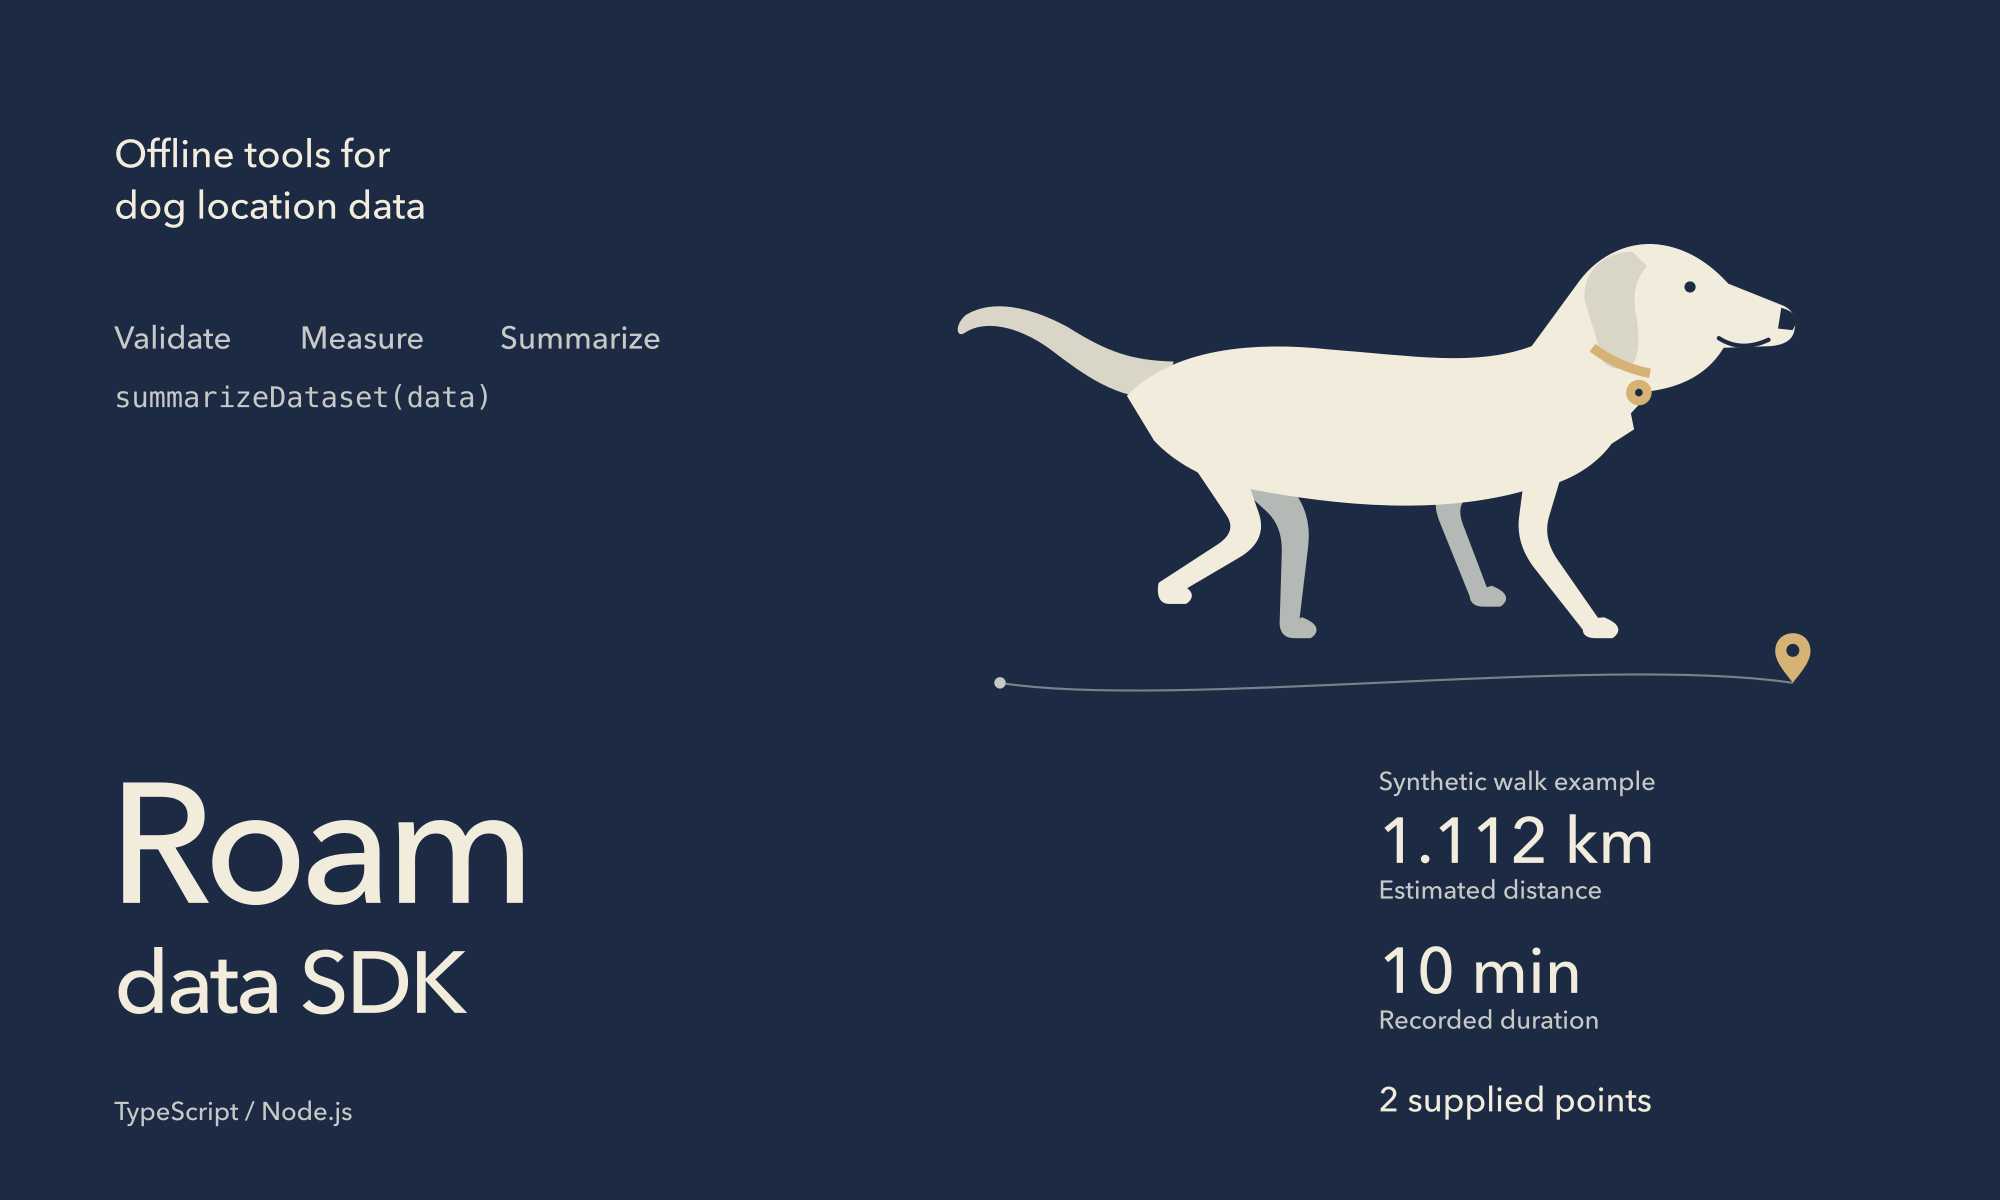
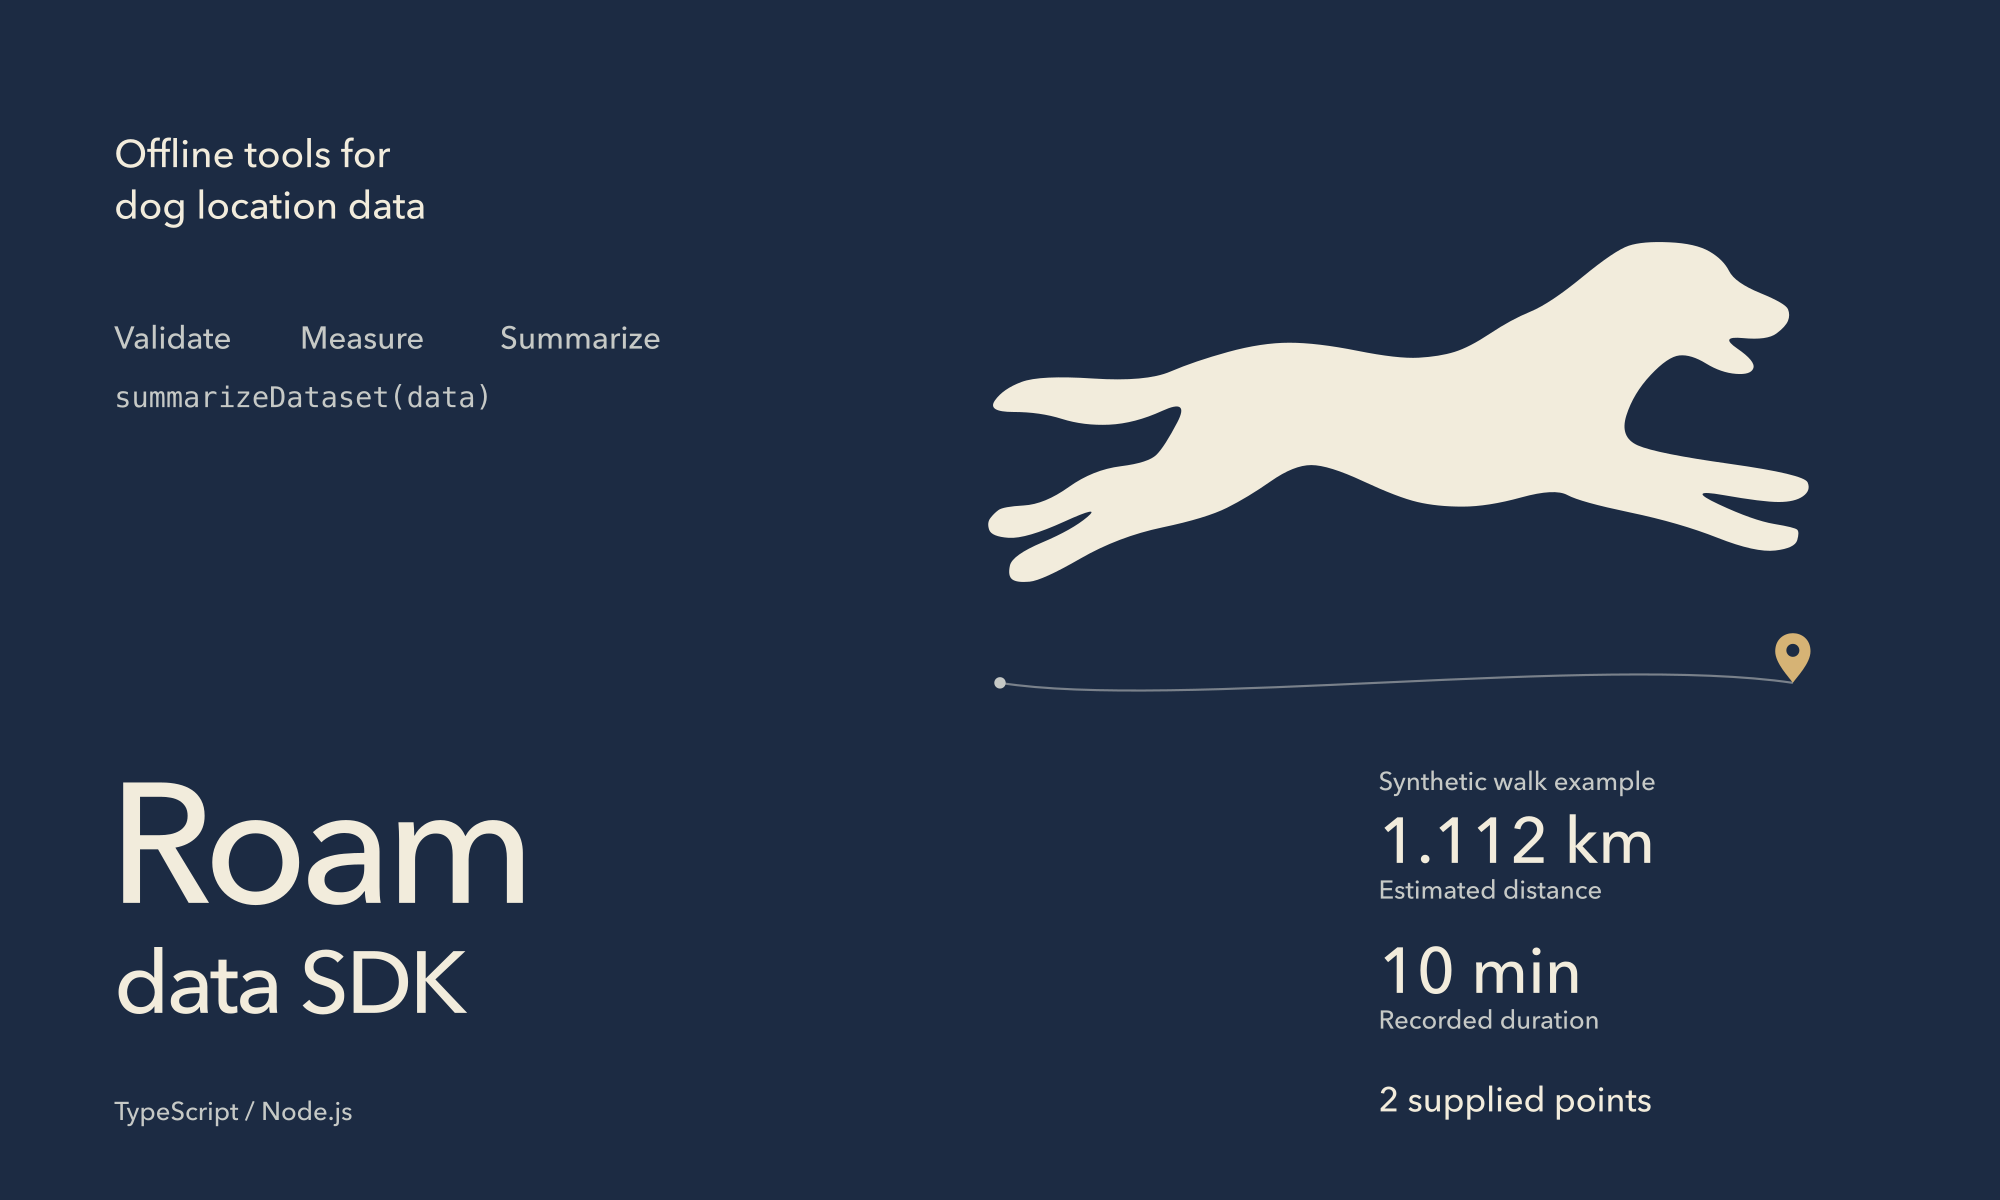
Animate the dog gallop from ten complete silhouette poses

Changed region(s): [[0.465, 0.185, 0.899, 0.555]]

diff --git a/docs/assets/dog-run-prompt.md b/docs/assets/dog-run-prompt.md
@@ -1,0 +1,25 @@
+# Running dog artwork
+
+The running dog key poses were generated with the built-in image generation tool, then prepared for the documentation animation. The reference photographs were used to study the motion; they are not embedded in the artwork.
+
+## Generation prompt
+
+```text
+Use case: illustration-story
+Asset type: a transparent animation sprite sheet for a running dog in a refined editorial pet-location app illustration
+Primary request: create TEN coherent key poses of ONE anatomically believable medium-sized retriever-like dog in a FULL GALLOP, not walking or trotting
+Canvas and layout: exactly 3840 by 1536 pixels, a uniform grid of FIVE columns and TWO rows, ten square cells of 768 by 768 pixels; one complete dog in each cell, no dividers, no labels, generous transparent margins; read poses left to right across the first row, then left to right across the second row
+Subject and style: original elegant side-profile dog silhouette, facing RIGHT in every cell; warm ivory solid fill #f2ecdc on a genuinely transparent background; restrained mid-century editorial cut-paper style with smooth anatomical curves; lean healthy adult dog, a natural muzzle, soft hanging ears, a long tapering tail trailing backward; the SAME proportions, breed, scale, and identity throughout
+Motion direction: a continuous looping gallop sequence. Pose 1: front paws reaching down toward contact and hind legs recovering. Pose 2: front support and hind feet gathering underneath. Pose 3: collected airborne phase with the legs tucked. Pose 4: hind paws reaching under the body for contact and front legs recovering forward. Pose 5: hind push-off, front legs reaching. Pose 6: body lifting into an extended airborne phase. Pose 7: full stretched gallop, front limbs reaching forward and hind limbs stretched backward, all feet off the ground. Pose 8: front limbs begin lowering and hind limbs recover. Pose 9: front paws reach toward the ground. Pose 10: front landing that connects naturally back to pose 1.
+Registration: all dogs are the same size, with the torso centered on the same relative point in each cell; allow the spine and abdomen to flex naturally, not rigid mechanical rotation. The torso stays in roughly the same screen position as for an in-place animation. Never let ears, tail, feet, or nose cross cell boundaries.
+Anatomy: exactly FOUR anatomically plausible legs per dog, with natural elbows, stifles, wrists, hocks and softly shaped paws; near and far limbs may overlap naturally. Feet must look like dog paws, not boots, hands, wooden sticks, or wheels. The tail joins smoothly to the rump, tapers to a soft tip, and follows the motion without a hard kink or rigid hook. No extra legs, disconnected paws, broken joints, or duplicate tails.
+Constraints: a single flat ivory silhouette per pose; keep the negative-space separations between legs readable; no strokes, fur texture, gradients, shadows, ground plane, scenery, text, numbers, borders, accessories, collar or logo. Do not repeat a standing or walking pose. It must unmistakably depict RUNNING.
+```
+
+## Silhouette cleanup prompt
+
+```text
+Edit this running-dog sprite sheet. Preserve the ten poses, the same dog's proportions, each leg and paw shape, the natural tapering tails, and the five-column two-row layout.
+Change the rendering only: make every dog a perfectly SOLID BLACK silhouette with fully opaque fill and clean edges, on a truly transparent background. Completely remove ALL white fringes, light glows, cast shadows, gradients, colored halos, soft blurs, outlines, and inner shading. Keep the negative-space gaps between the four legs open and readable. The silhouettes should look like precise cut-paper shapes, not soft photographs.
+Keep every full dog inside its own cell with comfortable transparent margins, including the muzzle, paws, ears and tail. Do not add a ground plane, grid, text, labels, borders or accessories. Do not change the galloping poses into walking poses. Preserve existing transparency.
+```

diff --git a/docs/assets/ANIMATION.md b/docs/assets/ANIMATION.md
@@ -6,7 +6,7 @@ The main animation and still poster are rendered at 2000 by 1200 pixels and disp
 
 ## Sequence
 
-1. Show a dog trotting above a short schematic location trail
+1. Show a dog galloping above a short schematic location trail
 2. Gently highlight validation, measurement, and summarization in the fixed typography
 3. Move a small marker along the trail toward its location pin
 4. Reveal the summary values without moving the labels
@@ -18,7 +18,9 @@ The synthetic result matches `examples/demo.mjs`: two points, approximately 1.11
 
 The visual centers on a dog and its location, with the deep blue ground, warm ivory tones, asymmetrical composition, and open space retained from the earlier poster direction. An original side-profile dog illustration sits above a single schematic trail and location pin. A two-line Roam title and the synthetic walk results keep the purpose of the SDK visible.
 
-The artwork is drawn in SVG with fixed, readable typography. Four articulated legs move in alternating diagonal pairs over an 800 ms trot cycle, with a small body bounce and secondary ear and tail motion. The foot trajectories compensate for the body bounce to keep the stance feet grounded. The supplied dog photographs and silhouette references guide the subject and poses; the illustration is drawn specifically for Roam.
+The dog uses ten complete silhouette poses over a 500 ms running cycle. Contact, gathering, push-off and airborne extension are represented as whole-body poses, keeping the legs, spine and tail together. The old articulated-leg model has been replaced. The [motion study from the Wellcome Collection](https://wellcomecollection.org/works/x353z8n2) was consulted as a reference for the phases of running.
+
+The silhouettes were created with the built-in image generation tool; [the prompts](dog-run-prompt.md) and [source sheet](dog-run-sheet.png) are included. The preparation script converts the silhouettes to smoothed SVG paths and aligns their head positions. The final lettering and silhouettes are rendered at full resolution, rather than enlarging the sprite bitmap.
 
 ## Reduced motion
 
@@ -36,6 +38,12 @@ From the repository root, install the optional graphics tool into the ignored ou
 npm install --prefix output/animation-tools --no-save --package-lock=false sharp
 npm run build
 ROAM_ASSET_MODULE_ROOT="$PWD/output/animation-tools" node scripts/render-overview.mjs
+```
+
+To rebuild the vector silhouettes from the source sheet before rendering:
+
+```sh
+ROAM_ASSET_MODULE_ROOT="$PWD/output/animation-tools" node scripts/prepare-dog-run.mjs
 ```
 
 Use [Sharp 0.34.3 or later](https://sharp.pixelplumbing.com/changelog/v0.34.3/), which supports `raw.pageHeight` for the compatibility GIF. Both animations use nominal 50 ms frame intervals; the GIF encoder may combine identical frames into longer holds. Input and processing stages use eased fades; results enter over 200 ms with an 80 ms stagger. The completed result remains readable for more than two seconds.

diff --git a/README.md b/README.md
@@ -2,7 +2,7 @@
 
 <picture>
   <source media="(prefers-reduced-motion: reduce)" srcset="docs/assets/sdk-overview.png">
-  <img src="docs/assets/sdk-workflow.png" width="1000" alt="Animated dog trotting above a schematic location trail and pin. Roam validates and summarizes supplied dog location data. The synthetic walk example has two points, about 1.112 km of distance, and a 10-minute segment span">
+  <img src="docs/assets/sdk-workflow.png" width="1000" alt="Animated dog running above a schematic location trail and pin. Roam validates and summarizes supplied dog location data. The synthetic walk example has two points, about 1.112 km of distance, and a 10-minute segment span">
 </picture>
 
 Work with saved dog walks and other pet location datasets locally. Roam data SDK validates JSON, calculates distances, and summarizes explicitly separated history segments. It includes TypeScript definitions and has no runtime dependencies.
